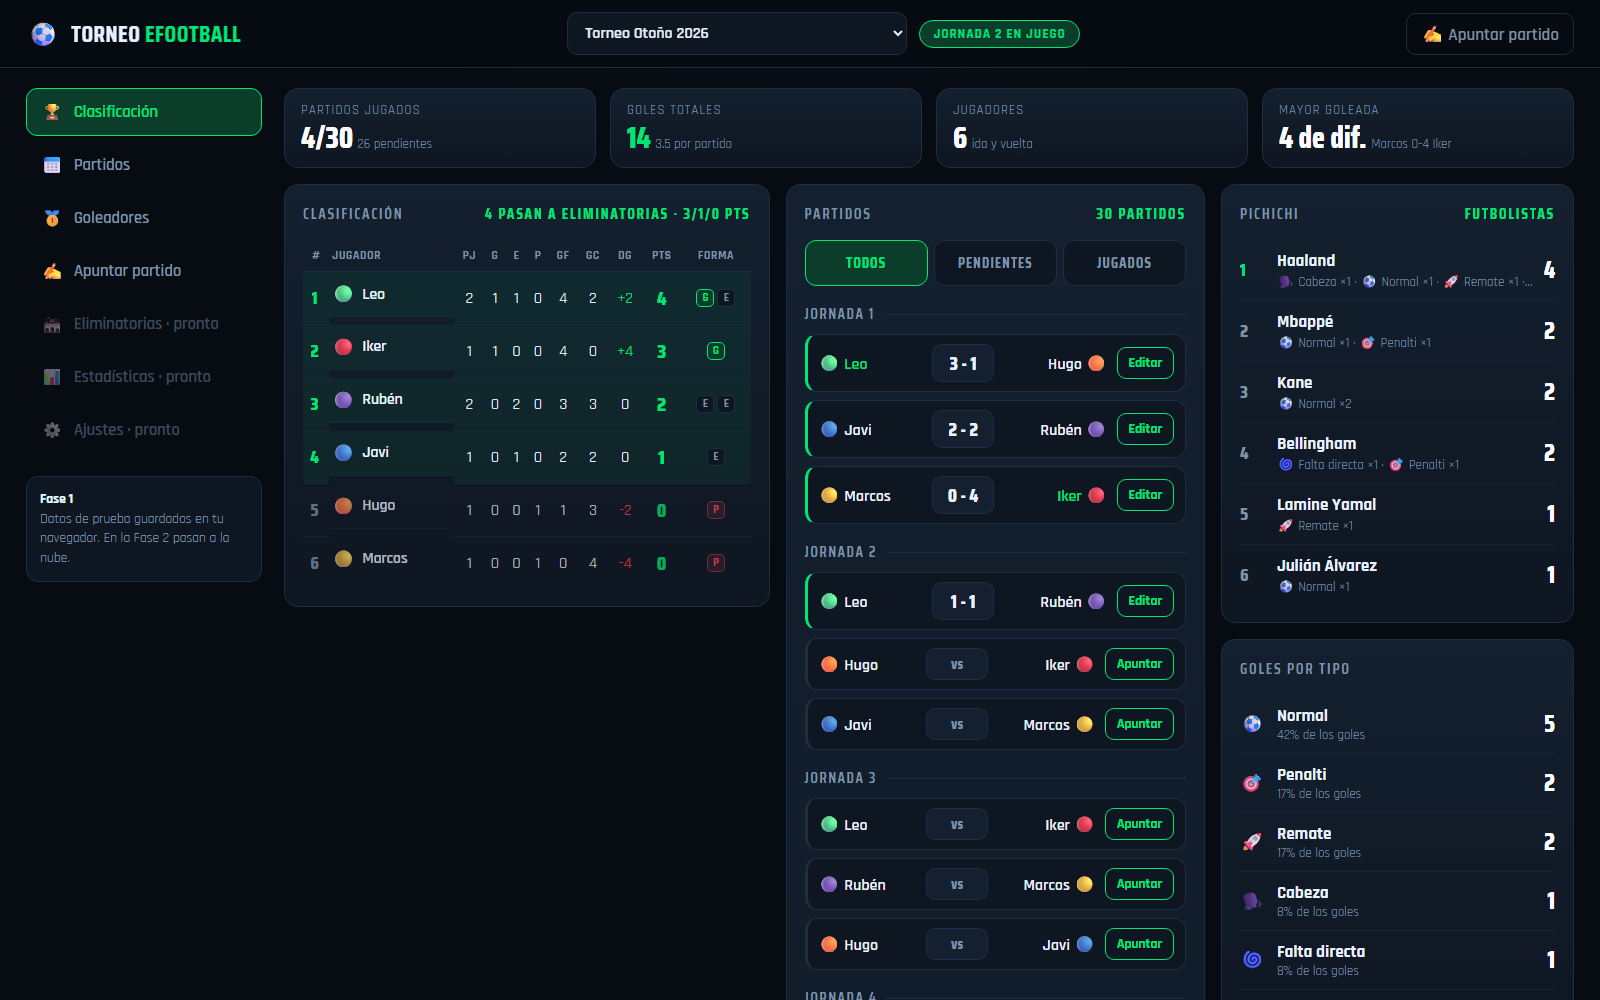
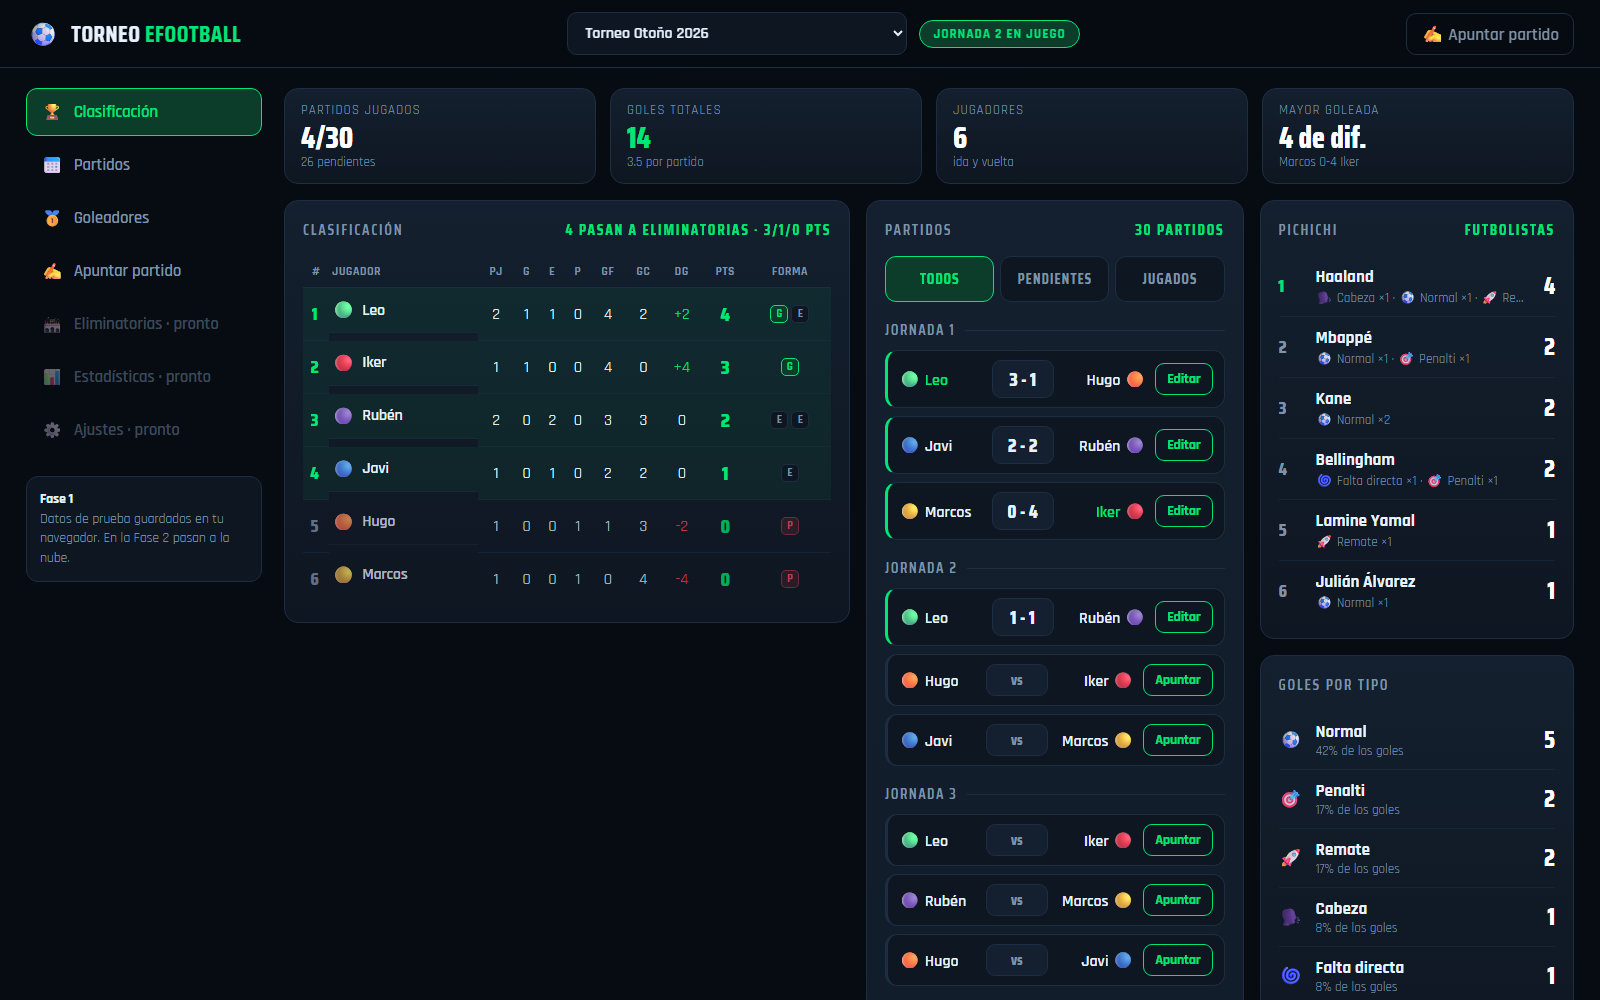
Pulido del layout de escritorio: mas ancho para la tabla de clasificacion

diff --git a/css/estilos.css b/css/estilos.css
@@ -128,7 +128,7 @@ body {
 .panel-titulo b { color: var(--neon); }
 
 .rejilla-2 { display: grid; grid-template-columns: minmax(0, 1.15fr) minmax(0, 1fr); gap: 16px; align-items: start; }
-.rejilla-3 { display: grid; grid-template-columns: minmax(465px, 1.1fr) minmax(325px, .95fr) minmax(285px, .8fr); gap: 16px; align-items: start; }
+.rejilla-3 { display: grid; grid-template-columns: minmax(560px, 1.35fr) minmax(320px, .9fr) minmax(280px, .75fr); gap: 16px; align-items: start; }
 .columna { display: flex; flex-direction: column; gap: 0; }
 .sticky { position: sticky; top: 78px; }
 
@@ -151,7 +151,10 @@ body {
   line-height: 1; color: #fff;
 }
 .dato .valor.verde { color: var(--neon); }
-.dato small { color: var(--muted); font-size: 13px; }
+.dato small {
+  color: var(--muted); font-size: 13px; display: block;
+  white-space: nowrap; overflow: hidden; text-overflow: ellipsis;
+}
 
 /* ---------- Tabla de clasificación ---------- */
 .tabla { width: 100%; border-collapse: collapse; font-variant-numeric: tabular-nums; table-layout: auto; }
